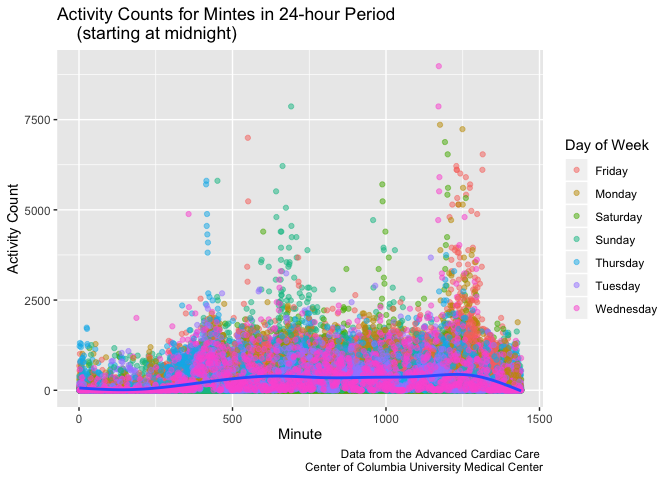
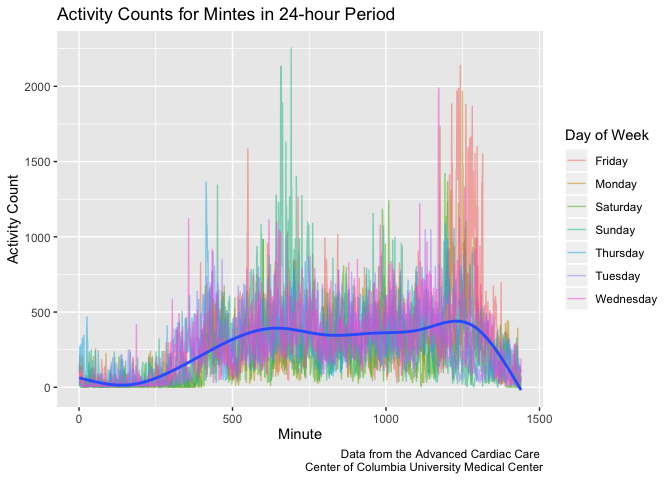
Updated graph in part 3, need to answer the question

diff --git a/HW3.md b/HW3.md
@@ -9,14 +9,14 @@ Holly Finertie
 library(tidyverse)
 ```
 
-    ## ── Attaching packages ───────────────────────────────── tidyverse 1.2.1 ──
+    ## ── Attaching packages ────────────────────────────────────────────── tidyverse 1.2.1 ──
 
     ## ✔ ggplot2 3.2.1     ✔ purrr   0.3.2
     ## ✔ tibble  2.1.3     ✔ dplyr   0.8.3
     ## ✔ tidyr   1.0.0     ✔ stringr 1.4.0
     ## ✔ readr   1.3.1     ✔ forcats 0.4.0
 
-    ## ── Conflicts ──────────────────────────────────── tidyverse_conflicts() ──
+    ## ── Conflicts ───────────────────────────────────────────────── tidyverse_conflicts() ──
     ## ✖ dplyr::filter() masks stats::filter()
     ## ✖ dplyr::lag()    masks stats::lag()
 
@@ -27,12 +27,12 @@ data("instacart")
 
 ### Description of Instacart Data Set:
 
-This data set contains 1384617 observations and 15 variables describing
-order information like time and day order was placed, products ordered,
-aisle where products are located, and days since last order was placed
-per user id. For example, the individual with user id 5 ordered 9 items
-of which most were from the produce department. They placed this order 6
-days after their last order.
+This data set contains `1384617 observations` and `15 variables`
+describing order information like time and day order was placed,
+products ordered, aisle where products are located, and days since last
+order was placed per user id. For example, the individual with user id 5
+ordered 9 items of which most were from the produce department. They
+placed this order 6 days after their last order.
 
 In total, there are 134 aisles and the most items are ordered from the
 fresh vegetables.
@@ -43,7 +43,7 @@ fresh vegetables.
 plot_aisles = instacart %>% 
   count(aisle, name = "n_aisle") %>% 
   filter(n_aisle > 10000) %>% 
-  arrange((aisle)) %>% 
+  arrange((n_aisle)) %>% 
   ggplot(aes(x = aisle, y = n_aisle)) +
   geom_bar(stat = "identity") + 
   geom_text(aes(label = n_aisle), hjust = -0.05, size = 1.5) +
@@ -72,28 +72,32 @@ top3_products = instacart %>%
   group_by(aisle) %>% 
   count(product_name, name = "n_product") %>% 
   filter(min_rank(desc(n_product)) < 4) %>% 
-  mutate(product_name = str_to_lower(product_name)) %>% 
+  arrange(desc(n_product)) %>%
+  mutate(
+    product_name = str_to_lower(product_name), 
+    "Rank" = row_number()) %>%
   rename(
     "Aisle Name" = aisle,
     "Product Name" = product_name, 
     "Count" = n_product
   ) %>% 
+  select( "Rank", everything()) %>% 
   knitr::kable()
 
 top3_products
 ```
 
-| Aisle Name                 | Product Name                                  | Count |
-| :------------------------- | :-------------------------------------------- | ----: |
-| baking ingredients         | cane sugar                                    |   336 |
-| baking ingredients         | light brown sugar                             |   499 |
-| baking ingredients         | pure baking soda                              |   387 |
-| dog food care              | organix chicken & brown rice recipe           |    28 |
-| dog food care              | small dog biscuits                            |    26 |
-| dog food care              | snack sticks chicken & rice recipe dog treats |    30 |
-| packaged vegetables fruits | organic baby spinach                          |  9784 |
-| packaged vegetables fruits | organic blueberries                           |  4966 |
-| packaged vegetables fruits | organic raspberries                           |  5546 |
+| Rank | Aisle Name                 | Product Name                                  | Count |
+| ---: | :------------------------- | :-------------------------------------------- | ----: |
+|    1 | packaged vegetables fruits | organic baby spinach                          |  9784 |
+|    2 | packaged vegetables fruits | organic raspberries                           |  5546 |
+|    3 | packaged vegetables fruits | organic blueberries                           |  4966 |
+|    1 | baking ingredients         | light brown sugar                             |   499 |
+|    2 | baking ingredients         | pure baking soda                              |   387 |
+|    3 | baking ingredients         | cane sugar                                    |   336 |
+|    1 | dog food care              | snack sticks chicken & rice recipe dog treats |    30 |
+|    2 | dog food care              | organix chicken & brown rice recipe           |    28 |
+|    3 | dog food care              | small dog biscuits                            |    26 |
 
 ### Mean Time of Day Pink Lady Apples and Coffee Ice Cream Are Ordered by Day
 
@@ -301,7 +305,7 @@ weeks.
 
 ``` r
 total_activity = accel_data %>% 
-  group_by(day_id,) %>% 
+  group_by(day_id) %>% 
   summarize("Total Activity" = sum(activity_count)) %>% 
   ungroup(day_id) %>% 
   rename("Day" = day_id) %>% 
@@ -355,12 +359,13 @@ total_activity
 
 ``` r
 activity_plot = accel_data %>% 
-ggplot(aes(x = activity_minute, y = activity_count)) +
-  geom_point(aes(color = day), alpha = 0.5) +
+  group_by(activity_minute, day) %>% 
+  summarize(mean_activity = mean(activity_count)) %>% 
+ggplot(aes(x = activity_minute, y = mean_activity)) +
+  geom_line(aes(color = day), alpha = 0.5) +
   geom_smooth(se = FALSE, alpha = 0.5) +
   labs(
-    title = "Activity Counts for Mintes in 24-hour Period 
-    (starting at midnight)",
+    title = "Activity Counts for Mintes in 24-hour Period",
     x = "Minute",
     y = "Activity Count",
     caption = "Data from the Advanced Cardiac Care 
